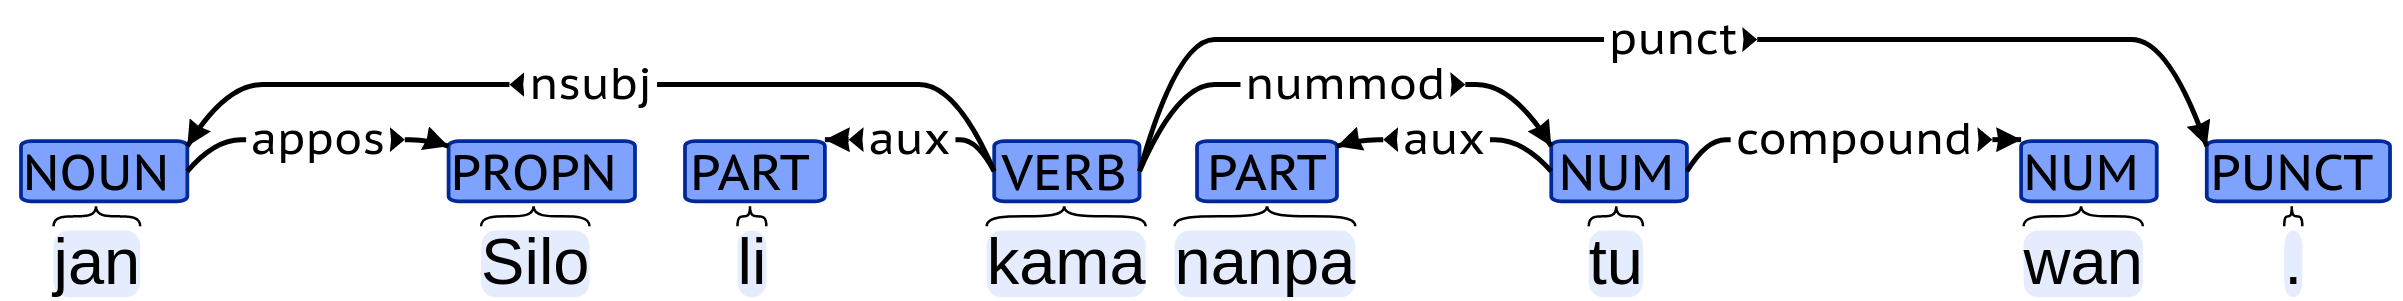
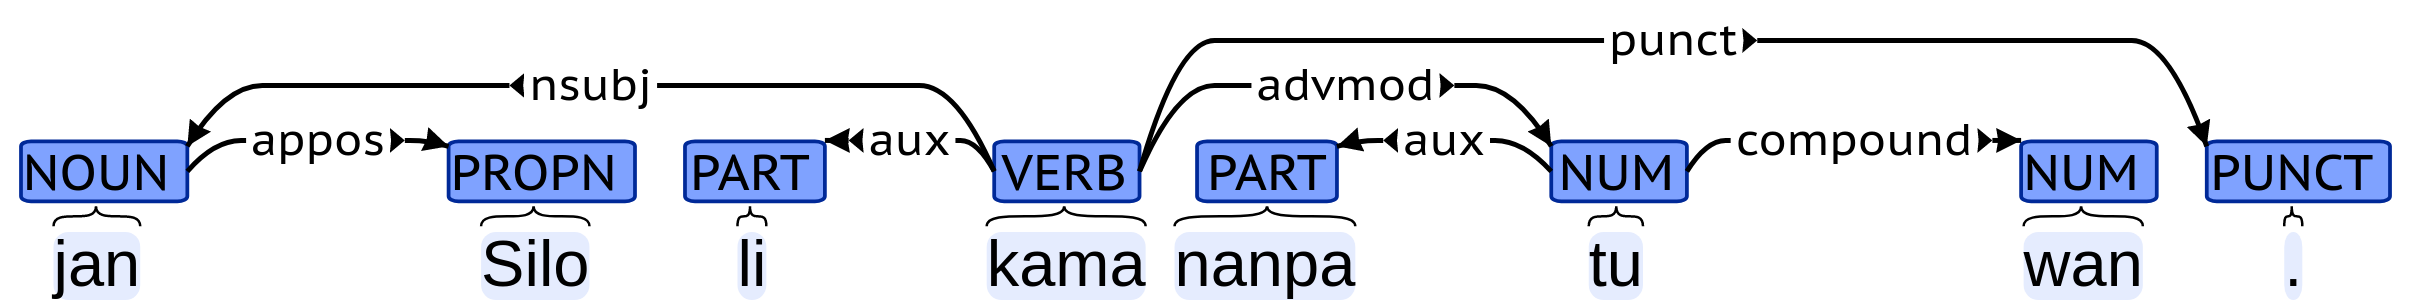
add

diff --git a/image/vis.html b/image/vis.html
@@ -363,11 +363,10 @@
 <pre><code class="language-conllu">
 0	ROOT					0	root
 1	jan		NOUN			0	advcl
-2	luka		NUM			1	nummuod
+2	luka		NUM			1	nummod
 3	luka		NUM			2	compound
 4	tu		NUM			3	compound
-5	tu		NUM			4	compound
-6	wan		NUM			5	compound
+5	wan		NUM			4	compound
 </code></pre>
 
 <pre><code class="language-conllu">
@@ -377,7 +376,7 @@
 3	li		PART			4	aux
 4	kama		VERB			0	root
 5	nanpa		PART			6	aux
-6	tu		NUM			4	nummod
+6	tu		NUM			4	advmod
 7	wan		NUM			6	compound
 8	.		PUNCT			4	punct
 </code></pre>
